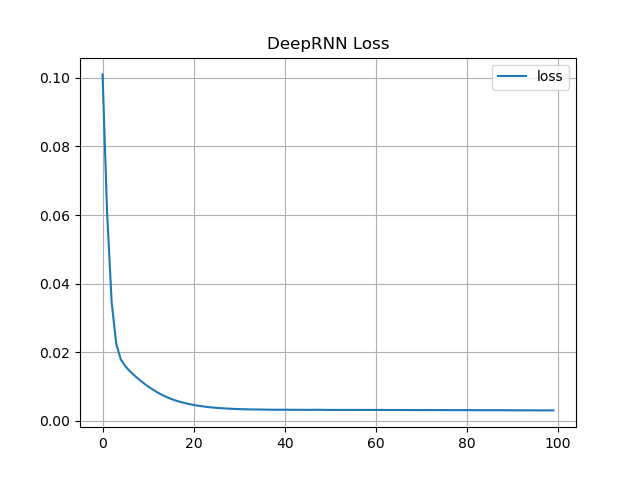
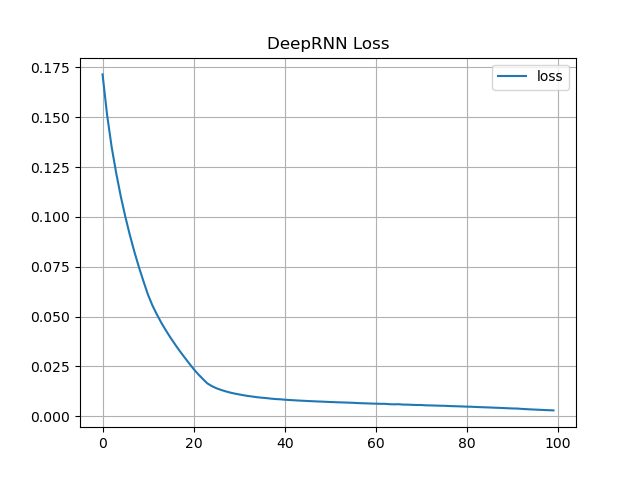
fix: RNN Dense레이어 누락 추가

diff --git a/GRU_APPLE/main.py b/GRU_APPLE/main.py
@@ -23,7 +23,7 @@ apple = pd.read_csv("Apple_5Y.csv")
 # print(apple.describe())
 
 # trainData, testData 가공
-def transformData(data: [[float]]) -> (([float], [float]), ([float], [float])):
+def transformData(data: [[float]]) -> ([[[float]]], [[float]], [[[float]]], [[float]]):
     # 날짜 제외
     data = data.drop(columns=["Date"])
 
@@ -47,11 +47,23 @@ def transformData(data: [[float]]) -> (([float], [float]), ([float], [float])):
             dataX.append(temp)
             dataY.append(dataSet[index + timeStep])
 
-        return dataX, dataY
+        return np.array(dataX), np.array(dataY)
 
-    (trainX, trainY) = parsingData(trainSet)
-    (testX, testY) = parsingData(testSet)
+    trainDataX, trainDataY = parsingData(trainSet)
+    testDataX, testDataY = parsingData(testSet)
 
+    return trainDataX, trainDataY, testDataX, testDataY
 
+# 데이터 분리
+trainX, trainY, testX, testY = transformData(apple)
 
-transformData(apple)
+print(trainX.shape)
+print(trainY.shape)
+print(testX.shape)
+print(testY.shape)
+
+# 모델 구현
+# 모델 컴파일
+# 모델 훈련
+# 예측
+# multiStep 예측

diff --git a/RNN Samsung/dataStorage.py b/RNN Samsung/dataStorage.py
@@ -40,8 +40,6 @@ class stockDataSet:
     def __minMaxNormalize(self, list):
         normalized = []
         print("최대 최소 값")
-        print(max(list))
-        print(min(list))
         for value in list:
             normalizedNum = (value - min(list)) / (max(list) - min(list))
             normalized.append(normalizedNum)

diff --git a/RNN Samsung/RNNModel.py b/RNN Samsung/RNNModel.py
@@ -4,6 +4,7 @@ from keras.layers import SimpleRNN, Dense, GRU
 def simpleRNN():
     model = Sequential()
     model.add(SimpleRNN(units=4, input_length=5, input_dim=1, activation="tanh"))
+    model.add(Dense(1))
     model.summary()
 
     return model
